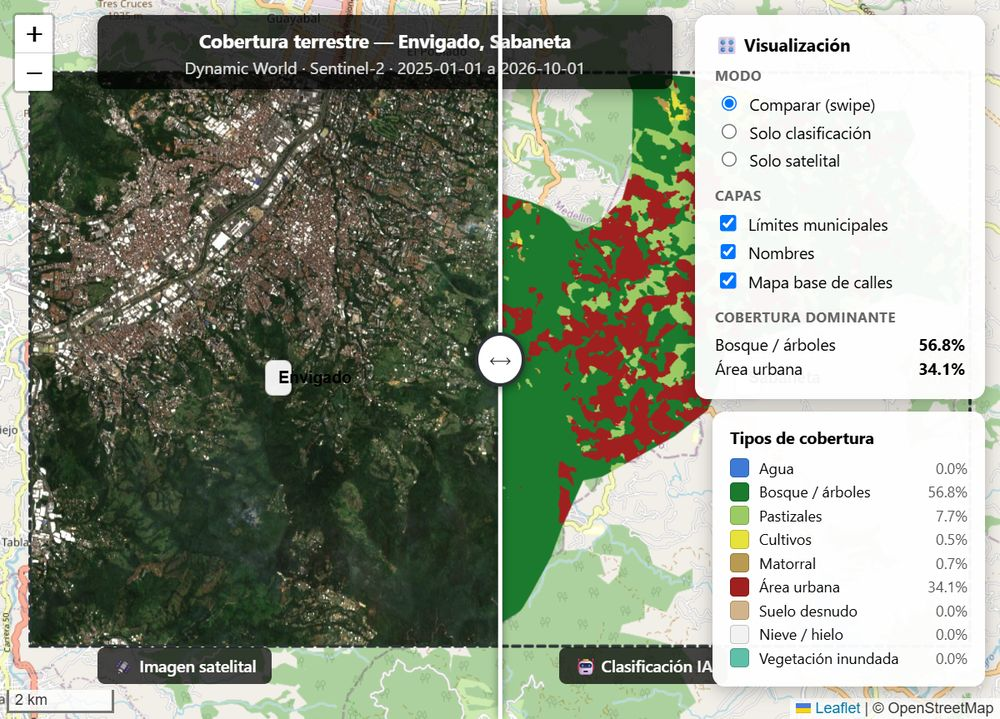
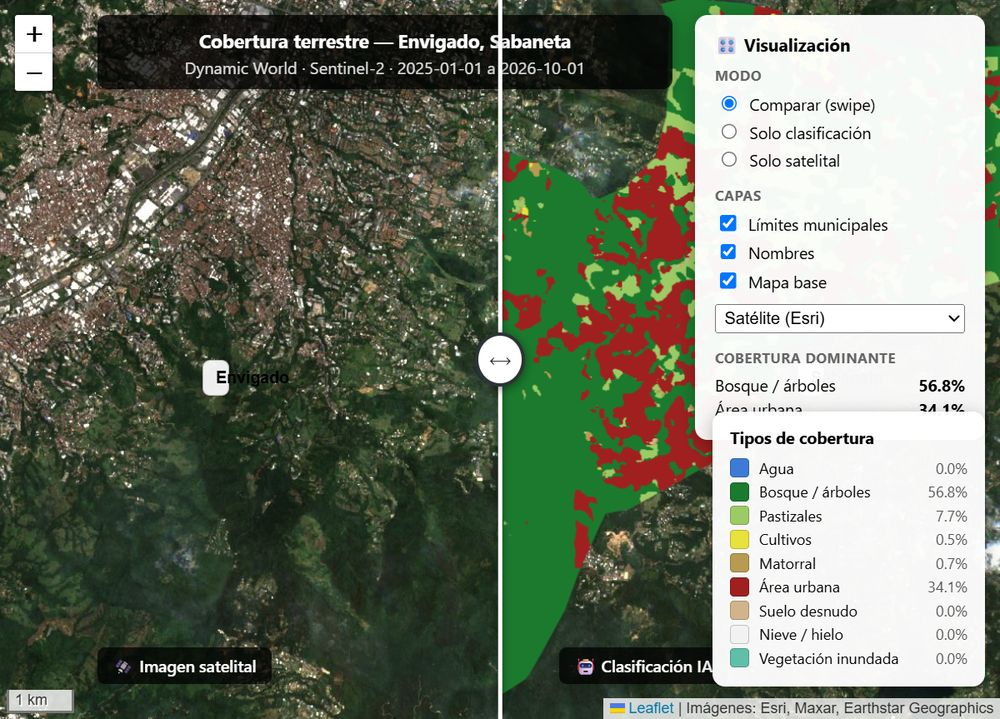
feat: la clasificación es la capa que aparece al hacer swipe
Antes el divisor recortaba ambas capas, de modo que a izquierda y
derecha se veían por separado la foto y la clasificación.

Ahora la imagen satelital es la capa base que SIEMPRE se ve completa, y
el divisor controla cuánto de la clasificación se superpone sobre ella.
Al arrastrar, la capa de coberturas aparece o desaparece sobre la
fotografía real, lo que facilita comprobar si la IA acertó.

Esto además simplifica el código: solo se recorta una capa en lugar de
dos. Se garantiza además que la clasificación quede apilada encima de la
satelital al cambiar de modo, reordenando las capas explícitamente.

Verificado en navegador: la satelital queda sin recorte en todas las
posiciones del divisor, y el recorte de la clasificación varía de 276 px
(divisor 25%) a 876 px (divisor 100%).

diff --git a/comparar.py b/comparar.py
@@ -3,8 +3,10 @@
 Genera un archivo HTML autocontenido que se abre con doble clic y ofrece:
 
   • Un comparador "swipe" arrastrable (como la herramienta equivalente de
-    ERDAS Imagine): un divisor separa la imagen satelital de la
-    clasificación y se mueve con el mouse.
+    ERDAS Imagine): la imagen satelital queda de fondo siempre visible y
+    un divisor controla cuánto de la clasificación se superpone. Al
+    arrastrar, la capa de coberturas aparece o desaparece sobre la
+    fotografía real, lo que facilita comprobar si la IA acertó.
   • Un panel de capas para encender/apagar cada elemento.
   • Zoom, desplazamiento y lectura de coordenadas.
 
@@ -539,25 +541,23 @@ var modoActual = 'swipe';
 var elDivisor  = document.getElementById('divisor');
 
 function aplicarClip() {
-  var elIzq = sat.getElement();
-  var elDer = clas.getElement();
-  if (!elIzq || !elDer) return;
+  var elClas = clas.getElement();
+  if (!elClas) return;
 
   var rect = mapa.getContainer().getBoundingClientRect();
   var xDivisor = rect.left + posDivisor * rect.width;
 
-  /* Recorta la capa satelital por su derecha y la clasificada por su
-     izquierda: así cada lado muestra solo su capa hasta el divisor. */
-  var rIzq = elIzq.getBoundingClientRect();
-  var rDer = elDer.getBoundingClientRect();
-  elIzq.style.clipPath = 'inset(0 ' + Math.max(0, rIzq.right - xDivisor) + 'px 0 0)';
-  elDer.style.clipPath = 'inset(0 0 0 ' + Math.max(0, xDivisor - rDer.left) + 'px)';
+  /* La imagen satelital es la capa base y SIEMPRE se ve completa.
+     Lo que se recorta es la clasificación: se oculta a la izquierda del
+     divisor, de modo que al arrastrar la capa de coberturas va
+     descubriendo la fotografía real que tiene debajo. */
+  var rClas = elClas.getBoundingClientRect();
+  elClas.style.clipPath = 'inset(0 0 0 ' + Math.max(0, xDivisor - rClas.left) + 'px)';
 }
 
 function quitarClip() {
-  [sat.getElement(), clas.getElement()].forEach(function (el) {
-    if (el) el.style.clipPath = 'none';
-  });
+  var elClas = clas.getElement();
+  if (elClas) elClas.style.clipPath = 'none';
 }
 
 function refrescar() {
@@ -569,8 +569,15 @@ function aplicarModo() {
   var enMapa = function (capa) { return mapa.hasLayer(capa); };
 
   if (modoActual === 'swipe') {
-    if (!enMapa(sat))  mapa.addLayer(sat);
-    if (!enMapa(clas)) mapa.addLayer(clas);
+    /* El orden de las capas importa: la satelital es la base y la
+       clasificación va ENCIMA, porque es la que se recorta con el
+       divisor. Se quitan y se vuelven a añadir en el orden correcto
+       por si antes estaban invertidas en otro modo. Al ser imágenes
+       incrustadas en el HTML, el reordenamiento es instantáneo. */
+    if (enMapa(sat))  mapa.removeLayer(sat);
+    if (enMapa(clas)) mapa.removeLayer(clas);
+    mapa.addLayer(sat);
+    mapa.addLayer(clas);
     elDivisor.classList.remove('oculto');
   } else if (modoActual === 'clas') {
     quitarClip();

diff --git a/README.md b/README.md
@@ -105,7 +105,7 @@ un solo archivo (imágenes en base64 + librerías incrustadas), así que
 
 | Herramienta | Qué hace |
 |---|---|
-| **Divisor deslizante** (⟶) | Arrástralo con el mouse para revelar la imagen satelital a un lado y la clasificación de la IA al otro. Es la misma idea que la herramienta de comparación de **ERDAS Imagine**. Doble clic lo devuelve al centro. |
+| **Divisor deslizante** (⟶) | La **imagen satelital queda de fondo, siempre visible**. Arrastra el divisor para controlar cuánto de la **clasificación** se superpone: la capa de coberturas aparece o desaparece sobre la fotografía real. Es la misma idea que la herramienta de comparación de **ERDAS Imagine**, y facilita comprobar si la IA acertó en cada zona. Doble clic devuelve el divisor al centro. |
 | **Modo** | Alterna entre *Comparar (swipe)*, *Solo clasificación* y *Solo satelital*. |
 | **Capas** | Enciende o apaga los límites municipales, los nombres y el mapa base. |
 | **Mapa base** | Elige entre cuatro estilos gratuitos y sin clave: *Satélite*, *Calles* y *Topográfico* (de Esri), y *Topográfico* (OpenTopoMap). |
